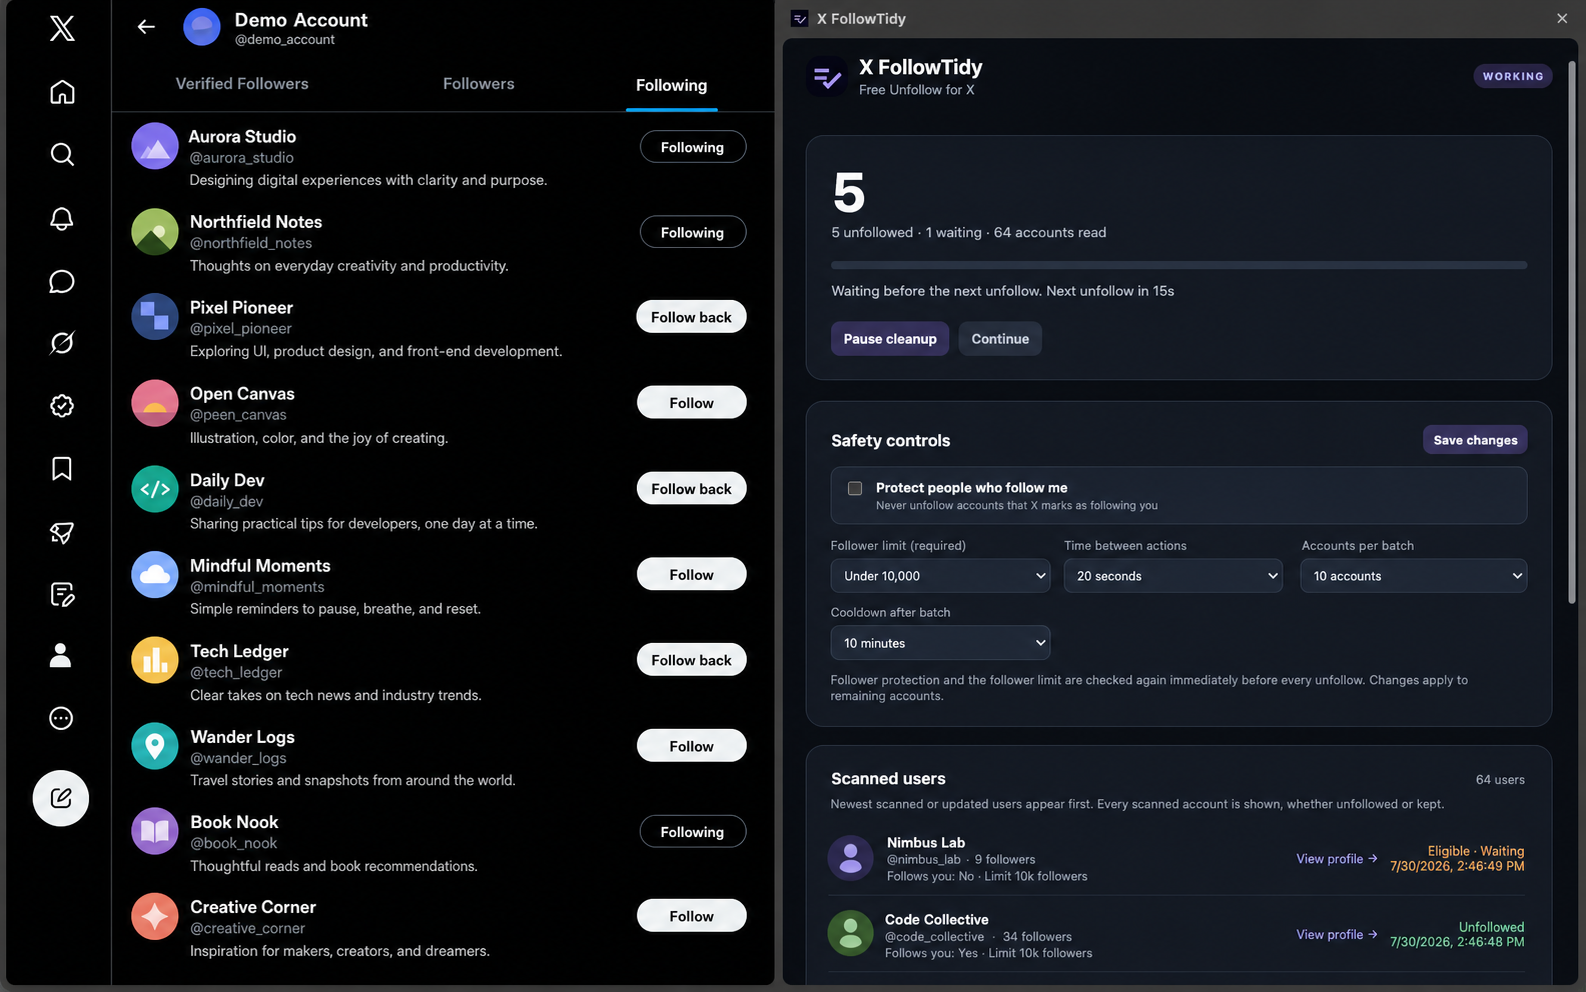
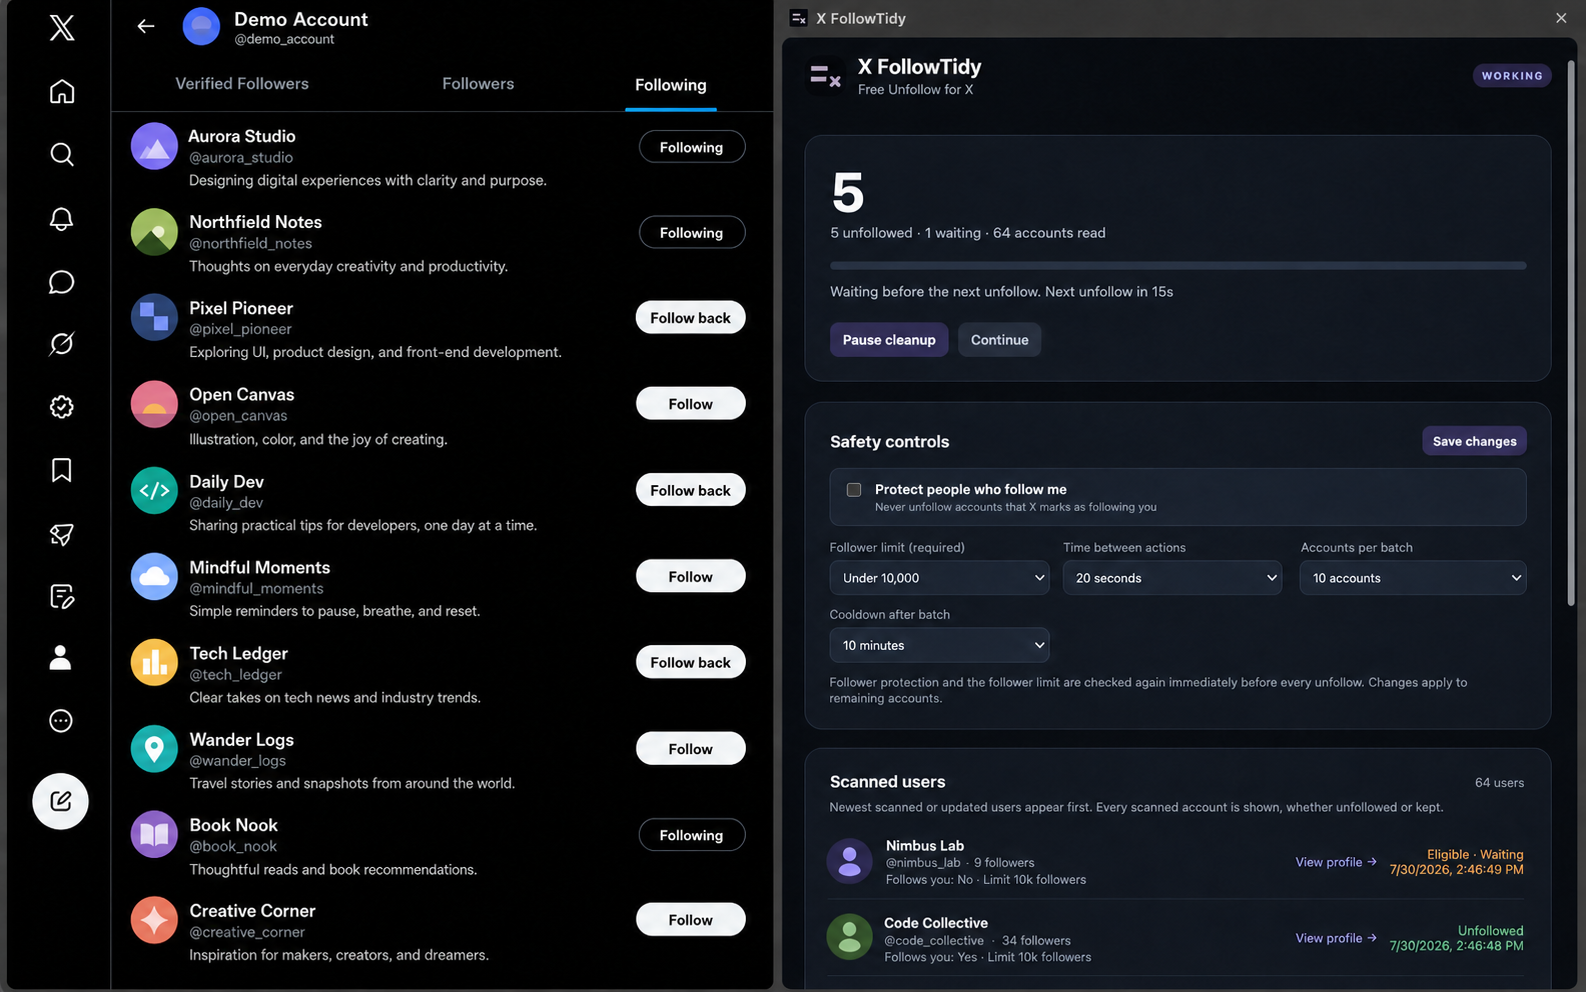
Prepare Chrome Web Store release

diff --git a/STORE_LISTING.md b/STORE_LISTING.md
@@ -1,0 +1,84 @@
+# Chrome Web Store listing
+
+## Product name
+
+X FollowTidy
+
+## Summary
+
+Safely unfollow accounts on X for free, with follower filters and adjustable pacing.
+
+## Detailed description
+
+X FollowTidy is a local-first Chrome extension for safely tidying your X Following list.
+
+Choose a follower-count limit, optionally protect people who follow you, and configure the delay, batch size, and cooldown. X FollowTidy checks each visible account, re-verifies the enabled safety rules immediately before unfollowing, and pauses automatically if X rejects or limits an action.
+
+Key features:
+
+- Start from any browser tab
+- Filter by verified follower count
+- Protect accounts that follow you
+- Configure action delay, batch size, and cooldown
+- Pause and continue from a live side panel
+- Review scanned, kept, waiting, and unfollowed accounts
+- Keep settings and history locally in Chrome
+- No subscription or required payment
+
+X FollowTidy is not affiliated with or endorsed by X Corp.
+
+## Category
+
+Productivity
+
+## Single purpose
+
+Help users review and safely unfollow accounts from their own X Following list using user-configured filters and pacing.
+
+## Permission justifications
+
+### `storage`
+
+Stores cleanup settings, progress, scanned-account records, and history locally in Chrome.
+
+### `unlimitedStorage`
+
+Allows the local scanned-account history to grow without sending account data to a server.
+
+### `tabs`
+
+Opens the user-requested X Following page, tracks that worker tab, and stops safely if it is closed.
+
+### `scripting`
+
+Loads the scanner and safety-check worker into the selected X Following page when it is not already present.
+
+### `sidePanel`
+
+Displays live progress, settings, pause/continue controls, and scanned-account results beside X.
+
+### Host access: `https://x.com/*`
+
+Required to read visible Following-list and hover-card information and perform unfollow actions explicitly requested by the user.
+
+## Data disclosure notes
+
+- Processes website content from the user's X Following page.
+- Stores account handles, visible profile metadata, scan results, settings, and history locally on the user's device.
+- Does not transmit this data to the developer or any application server.
+- Does not collect analytics, advertising identifiers, authentication credentials, payment information, or telemetry.
+- Opens GitHub Sponsors only after the user explicitly clicks the optional donation link.
+
+The Chrome Web Store privacy form and the published privacy policy must match these statements.
+
+## Privacy policy URL
+
+Before submission, publish [PRIVACY.md](PRIVACY.md) at a public HTTPS URL and enter that URL in the Chrome Web Store Privacy practices tab. The GitHub repository is currently private, so its file URL is not publicly accessible.
+
+## Store graphics
+
+- Store icon: `icons/icon-128.png`
+- Screenshot: `store-assets/screenshot-1280x800.png`
+- README showcase: `assets/x-followtidy-showcase.png`
+
+The developer dashboard may also request a 440×280 small promotional tile. Keep its branding consistent with the current icon and screenshot.

diff --git a/README.md b/README.md
@@ -90,7 +90,6 @@ See [PRIVACY.md](PRIVACY.md) for the full privacy summary.
 | `scripting` | Load the worker into the Following page when needed. |
 | `sidePanel` | Display progress and controls beside X. |
 | `https://x.com/*` | Inspect the Following list and perform requested actions. |
-| `https://twitter.com/*` | Preserve compatibility with legacy X/Twitter links. |
 
 ## Development
 
@@ -100,6 +99,8 @@ The extension uses plain HTML, CSS, and JavaScript with no runtime dependencies 
 npm test
 npm run check
 ```
+
+Chrome Web Store submission copy, permission justifications, and privacy-field notes are available in [STORE_LISTING.md](STORE_LISTING.md).
 
 Project layout:
 
@@ -112,6 +113,7 @@ Project layout:
 ├── popup.*                Start flow and initial settings
 ├── dashboard.*            Side-panel progress, controls, and history
 ├── assets/                 Privacy-safe promotional screenshots
+├── store-assets/           Chrome Web Store listing graphics
 ├── icons/                 Extension icons
 ├── tests/                 Node-based safety and parser checks
 └── PRIVACY.md             Privacy summary
